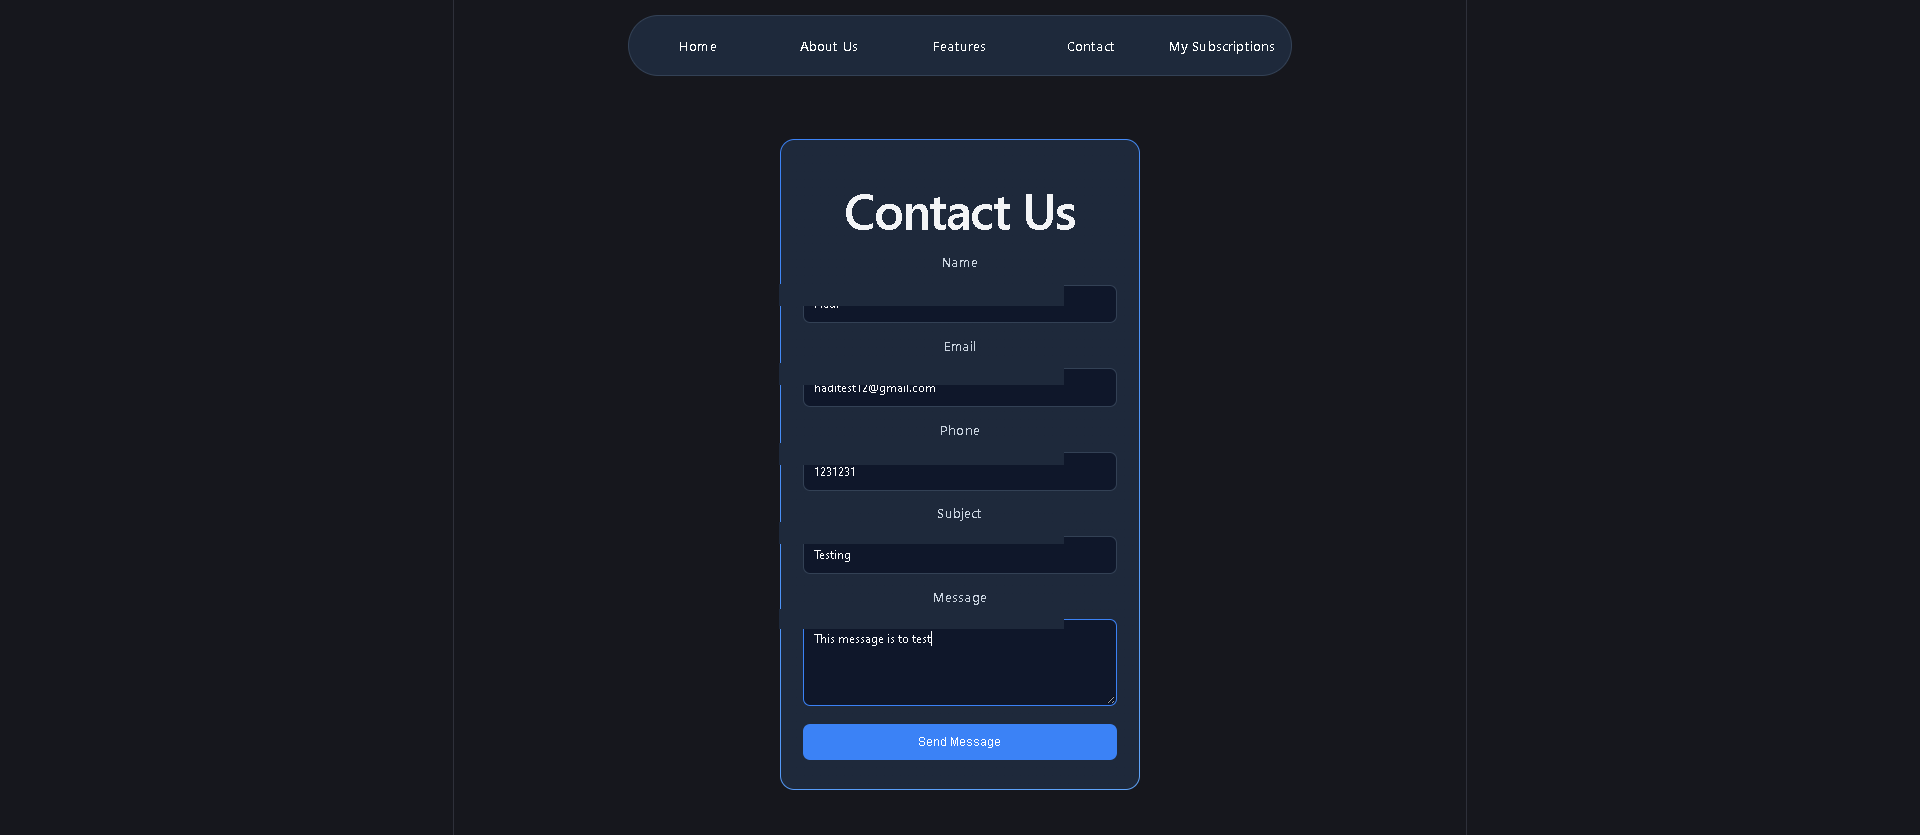
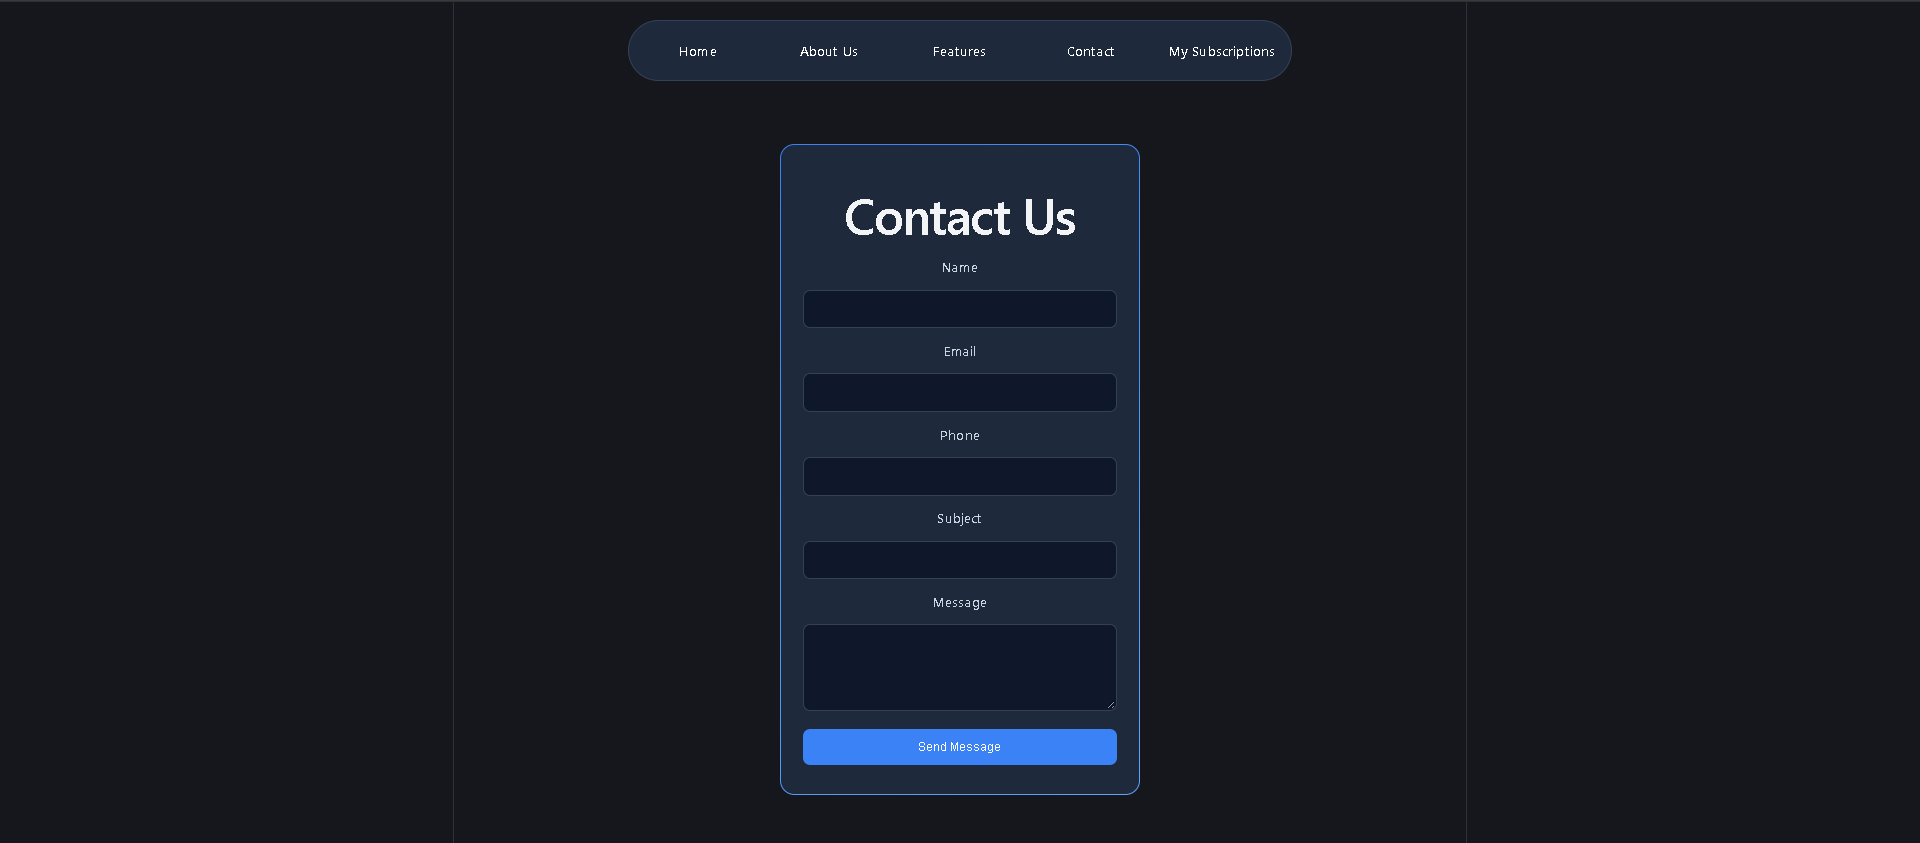
Improve contact form placeholders and validation

diff --git a/src/components/Contact.jsx b/src/components/Contact.jsx
@@ -27,8 +27,8 @@ function Contact() {
       return;
     }
 
-    if (phone.length < 8 || phone.length > 15) {
-      alert("Phone must contain 8 to 15 digits");
+    if (phone.length < 7 || phone.length > 15) {
+      alert("Phone must contain 7 to 15 digits");
       return;
     }
 
@@ -59,6 +59,7 @@ function Contact() {
         <label>Name</label>
         <input
           type="text"
+          placeholder="Enter your full name"
           value={name}
           onChange={(e) => setName(e.target.value)}
           required
@@ -67,6 +68,7 @@ function Contact() {
         <label>Email</label>
         <input
           type="email"
+          placeholder="example@gmail.com"
           value={email}
           onChange={(e) => setEmail(e.target.value)}
           required
@@ -75,10 +77,12 @@ function Contact() {
         <label>Phone</label>
         <input
           type="tel"
+          placeholder="7-15 digits (numbers only)"
           value={phone}
           onChange={(e) =>
             setPhone(e.target.value.replace(/[^0-9]/g, ""))
           }
+          minLength={7}
           maxLength={15}
           required
         />
@@ -86,6 +90,7 @@ function Contact() {
         <label>Subject</label>
         <input
           type="text"
+          placeholder="Enter the subject"
           value={subject}
           onChange={(e) => setSubject(e.target.value)}
           required
@@ -93,8 +98,10 @@ function Contact() {
 
         <label>Message</label>
         <textarea
+          placeholder="Write your message (at least 10 characters)"
           value={message}
           onChange={(e) => setMessage(e.target.value)}
+          minLength={10}
           required
         />
 

diff --git a/src/components/Contact.css b/src/components/Contact.css
@@ -69,3 +69,9 @@
 .contact button:hover {
   background-color: #2563EB;
 }
+
+.contact input::placeholder,
+.contact textarea::placeholder {
+  color: rgba(255, 255, 255, 0.45);
+  opacity: 1;
+}
